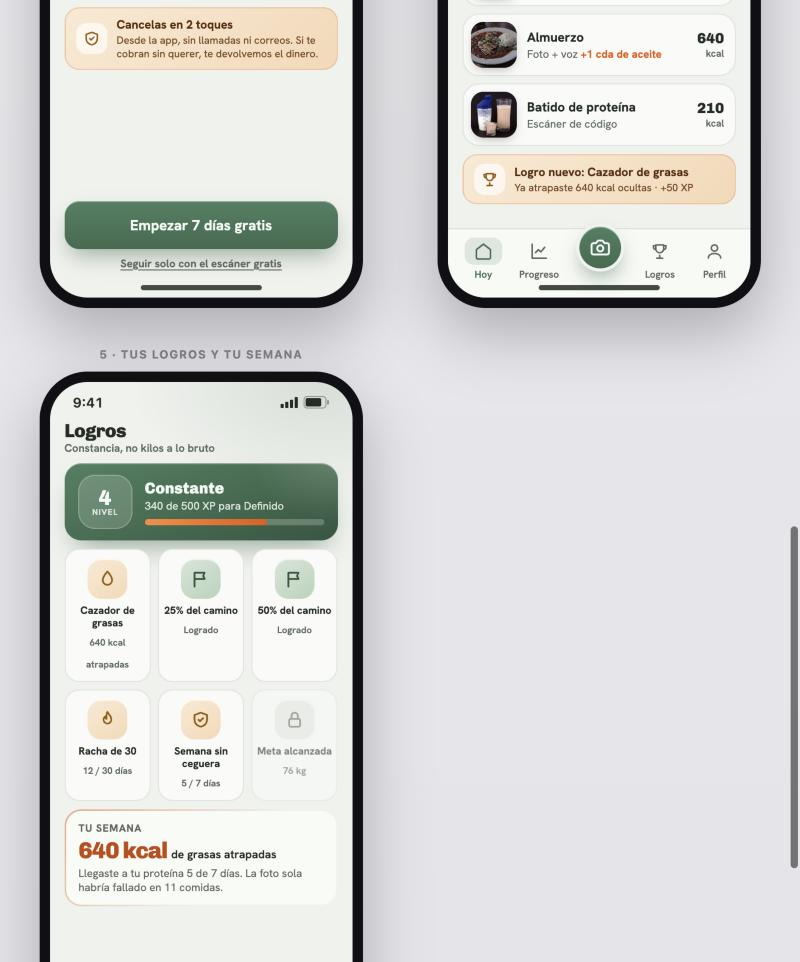
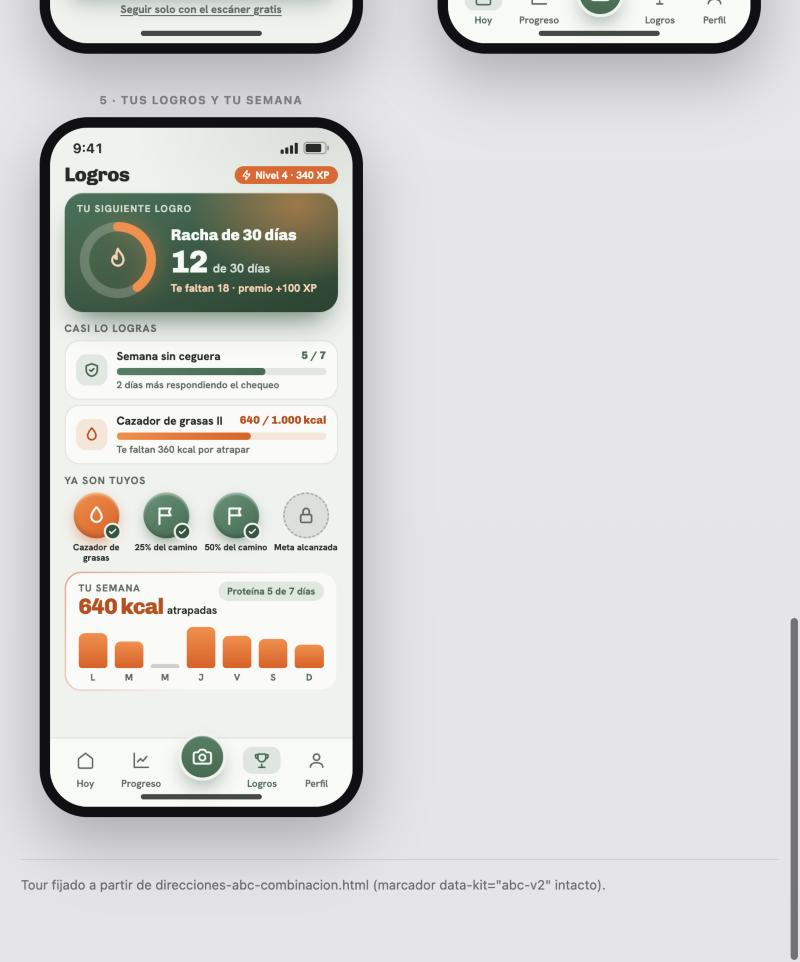
fix: rediseño pantalla de logros

diff --git a/docs/revisiones/vista-previa-app.html b/docs/revisiones/vista-previa-app.html
@@ -379,6 +379,43 @@
   .op-ab .reporte .big { font-family: var(--font-display); font-size: 22px; font-weight: 800; letter-spacing: -0.03em; margin-top: 2px; color: #C2490A; font-variant-numeric: tabular-nums; }
   .op-ab .reporte .big small { font-family: var(--font-body); font-size: 11px; color: var(--text-1); font-weight: 600; letter-spacing: 0; }
   .op-ab .reporte p { font-size: 10.5px; color: var(--text-2); margin-top: 2px; }
+
+  .op-ab .sig { margin-top: 7px; border-radius: 18px; padding: 9px 12px 11px; color:#F4FAF5; position: relative; overflow: hidden;
+    background: radial-gradient(150px 110px at 85% 10%, rgb(255 138 61 / .55), transparent 70%), linear-gradient(160deg, #3F7358, #2F5640 60%, #24432F); box-shadow: inset 0 1px 0 rgb(255 255 255 / .28), 0 16px 28px -12px rgb(47 86 64 / .8); }
+  .op-ab .sig .et { font-size: 9.5px; font-weight: 800; letter-spacing: .09em; text-transform: uppercase; opacity: .8; }
+  .op-ab .sig-in { display:flex; gap: 12px; align-items:center; margin-top: 4px; }
+  .op-ab .sig-ring { position:relative; width: 78px; height: 78px; flex-shrink:0; filter: drop-shadow(0 0 10px rgb(255 138 61 / .55)); }
+  .op-ab .sig-ring .c { position:absolute; inset:0; display:flex; align-items:center; justify-content:center; }
+  .op-ab .sig h4 { font-family: var(--font-display); font-size: 15px; font-weight: 800; letter-spacing: -0.01em; }
+  .op-ab .sig .big { font-family: var(--font-display); font-size: 30px; font-weight: 800; letter-spacing: -0.03em; line-height: 1; margin-top: 2px; font-variant-numeric: tabular-nums; } .op-ab .sig .big small { font-size: 12px; font-weight: 600; opacity: .85; letter-spacing: 0; font-family: var(--font-body); }
+  .op-ab .sig .falta { margin-top: 3px; font-size: 10.5px; font-weight: 700; color: #FFD2B0; }
+  .op-ab .sec { margin-top: 9px; font-size: 10px; font-weight: 800; letter-spacing: .08em; text-transform: uppercase; color: var(--text-2); }
+  .op-ab .prg { margin-top: 5px; display:flex; gap: 9px; align-items:center; padding: 7px 10px; border-radius: 14px; background: var(--surface); border: 1px solid color-mix(in oklab, var(--text-2) 15%, transparent); }
+  .op-ab .prg .ic { width: 30px; height: 30px; border-radius: 10px; display:flex; align-items:center; justify-content:center; background: color-mix(in oklab, var(--accent) 14%, transparent); color: var(--accent); flex-shrink:0; }
+  .op-ab .prg.o .ic { background: rgb(232 89 12 / .14); color: #C2490A; }
+  .op-ab .prg .in { flex:1; } .op-ab .prg .t { display:flex; justify-content: space-between; font-size: 11px; } .op-ab .prg .t span { font-family: var(--font-display); font-weight: 800; font-size: 10.5px; color: var(--accent); font-variant-numeric: tabular-nums; } .op-ab .prg.o .t span { color: #C2490A; }
+  .op-ab .prg .bar { margin-top: 4px; height: 7px; border-radius: 4px; background: color-mix(in oklab, var(--accent) 14%, transparent); overflow:hidden; } .op-ab .prg.o .bar { background: rgb(232 89 12 / .14); }
+  .op-ab .prg .bar i { display:block; height:100%; border-radius: 4px; background: linear-gradient(90deg, #4B8062, #3D6B4F); } .op-ab .prg.o .bar i { background: linear-gradient(90deg, #FF8A3D, #E8590C); }
+  .op-ab .prg p { margin-top: 3px; font-size: 9.5px; color: var(--text-2); font-weight: 600; }
+  .op-ab .medallas { margin-top: 5px; display:grid; grid-template-columns: repeat(4,1fr); gap: 6px; }
+  .op-ab .med { text-align:center; } .op-ab .med b { display:block; margin-top: 4px; font-size: 8.5px; line-height: 1.15; font-weight: 800; }
+  .op-ab .med .m { position:relative; width: 44px; height: 44px; border-radius: 999px; margin: 0 auto; display:flex; align-items:center; justify-content:center; box-shadow: inset 0 2px 2px rgb(255 255 255 / .45), inset 0 -3px 4px rgb(0 0 0 / .18); }
+  .op-ab .med .m.o { background: linear-gradient(145deg, #FF8A3D, #E8590C); box-shadow: inset 0 2px 2px rgb(255 255 255 / .45), inset 0 -3px 4px rgb(0 0 0 / .18), 0 6px 14px -4px rgb(232 89 12 / .7); }
+  .op-ab .med .m.g { background: linear-gradient(145deg, #5B9576, #3D6B4F); box-shadow: inset 0 2px 2px rgb(255 255 255 / .45), inset 0 -3px 4px rgb(0 0 0 / .18), 0 6px 14px -4px rgb(61 107 79 / .7); }
+  .op-ab .med .m.z { background: color-mix(in oklab, var(--text-2) 14%, transparent); color: var(--text-2); box-shadow: none; border: 1.5px dashed color-mix(in oklab, var(--text-2) 40%, transparent); }
+  .op-ab .med .m u { position:absolute; right: -2px; bottom: -2px; width: 17px; height: 17px; border-radius: 999px; background: #2F5640; border: 2px solid var(--bg); display:flex; align-items:center; justify-content:center; }
+  .op-ab .med .m.o u { background: #2F5640; }
+  .op-ab .sem { margin-top: 8px; border-radius: 16px; padding: 8px 12px 6px; background: var(--surface); border: 1.5px solid transparent;
+    background: linear-gradient(var(--surface), var(--surface)) padding-box, linear-gradient(135deg, rgb(232 89 12 / .5), transparent 60%) border-box; }
+  .op-ab .sem .sh { display:flex; justify-content: space-between; align-items:flex-start; }
+  .op-ab .sem h5 { font-size: 9.5px; letter-spacing: .08em; text-transform: uppercase; color: var(--text-2); font-weight: 800; }
+  .op-ab .sem .big { font-family: var(--font-display); font-size: 21px; font-weight: 800; letter-spacing: -0.03em; color: #C2490A; font-variant-numeric: tabular-nums; line-height: 1.1; } .op-ab .sem .big small { font-family: var(--font-body); font-size: 10.5px; color: var(--text-1); font-weight: 600; letter-spacing: 0; }
+  .op-ab .sem .pill { font-size: 9.5px; font-weight: 800; padding: 3px 8px; border-radius: 999px; background: color-mix(in oklab, var(--accent) 14%, transparent); color: var(--accent); }
+  .op-ab .barras { margin-top: 6px; height: 56px; display:flex; gap: 7px; align-items:flex-end; }
+  .op-ab .barras div { flex:1; height: 100%; display:flex; flex-direction:column; justify-content:flex-end; align-items:center; gap: 3px; }
+  .op-ab .barras i { display:block; width: 100%; border-radius: 6px 6px 3px 3px; background: linear-gradient(180deg, #FF8A3D, #E8590C); }
+  .op-ab .barras i.cero { height: 4px; background: color-mix(in oklab, var(--text-2) 30%, transparent); }
+  .op-ab .barras span { font-size: 9px; font-weight: 800; color: var(--text-2); } .op-ab .barras .hoy span { color: var(--accent); }
   .op-ab .fila-moviles { grid-template-columns: repeat(auto-fit, minmax(310px, 1fr)); }
   .pie {
     max-width: 1180px; margin: 40px auto 0; font-size: 12.5px; color: #6a6a72;
@@ -453,16 +490,17 @@
  </div><div class="home-indicator"></div></div></div><div class="marco"><p class="rotulo-frame">5 · Tus logros y tu semana</p><div class="telefono"><div class="statusbar" style="color:#242B24"><span>9:41</span><span class="der">
 <svg width="17" height="11" viewBox="0 0 17 11" fill="currentColor"><rect x="0" y="7" width="3" height="4" rx="0.8"/><rect x="4.5" y="5" width="3" height="6" rx="0.8"/><rect x="9" y="3" width="3" height="8" rx="0.8"/><rect x="13.5" y="0.5" width="3" height="10.5" rx="0.8"/></svg>
 <svg width="25" height="12" viewBox="0 0 25 12"><rect x="0.5" y="0.5" width="21" height="11" rx="3" fill="none" stroke="currentColor" opacity="0.4"/><rect x="2" y="2" width="15" height="8" rx="1.6" fill="currentColor"/><rect x="22.5" y="3.8" width="2" height="4.4" rx="1" fill="currentColor" opacity="0.4"/></svg></span></div><div class="pantalla">
-  <div class="top" style="margin-top:4px"><div><h3 style="font-family:var(--font-display);font-size:18px;font-weight:800;letter-spacing:-0.02em">Logros</h3><p>Constancia, no kilos a lo bruto</p></div></div>
-  <div class="nivel-card"><span class="n">4<small>NIVEL</small></span><div style="flex:1"><h4>Constante</h4><p>340 de 500 XP para Definido</p><div class="xb"><i></i></div></div></div>
-  <div class="insignias">
-   <div class="ins"><span class="ic"><svg width="18" height="18" viewBox="0 0 24 24" fill="none" stroke="currentColor" stroke-width="2.2" stroke-linecap="round" stroke-linejoin="round" aria-hidden="true"><path d="M12 2.5s6 6.2 6 11a6 6 0 0 1-12 0c0-4.8 6-11 6-11z"/></svg></span><b>Cazador de grasas</b><span>640 kcal atrapadas</span></div>
-   <div class="ins g"><span class="ic"><svg width="18" height="18" viewBox="0 0 24 24" fill="none" stroke="currentColor" stroke-width="2.2" stroke-linecap="round" stroke-linejoin="round" aria-hidden="true"><path d="M4 22V4M4 4h13l-2 4 2 4H4"/></svg></span><b>25% del camino</b><span>Logrado</span></div>
-   <div class="ins g"><span class="ic"><svg width="18" height="18" viewBox="0 0 24 24" fill="none" stroke="currentColor" stroke-width="2.2" stroke-linecap="round" stroke-linejoin="round" aria-hidden="true"><path d="M4 22V4M4 4h13l-2 4 2 4H4"/></svg></span><b>50% del camino</b><span>Logrado</span></div>
-   <div class="ins"><span class="ic"><svg width="18" height="18" viewBox="0 0 24 24" fill="none" stroke="currentColor" stroke-width="2.2" stroke-linecap="round" stroke-linejoin="round" aria-hidden="true"><path d="M12 2c1 3 5 5 5 10a5 5 0 0 1-10 0c0-2 1-3 2-4 0 2 1 3 2 3 0-3-1-5 1-9z"/></svg></span><b>Racha de 30</b><span>12 / 30 días</span></div>
-   <div class="ins"><span class="ic"><svg width="18" height="18" viewBox="0 0 24 24" fill="none" stroke="currentColor" stroke-width="2.2" stroke-linecap="round" stroke-linejoin="round" aria-hidden="true"><path d="M12 3 4 6v6c0 5 3.5 8 8 9 4.5-1 8-4 8-9V6z"/><path d="m9 12 2 2 4-4"/></svg></span><b>Semana sin ceguera</b><span>5 / 7 días</span></div>
-   <div class="ins bloq"><span class="ic"><svg width="18" height="18" viewBox="0 0 24 24" fill="none" stroke="currentColor" stroke-width="2.2" stroke-linecap="round" stroke-linejoin="round" aria-hidden="true"><rect x="5" y="11" width="14" height="10" rx="2"/><path d="M8 11V7a4 4 0 0 1 8 0v4"/></svg></span><b>Meta alcanzada</b><span>76 kg</span></div></div>
-  <div class="reporte"><h5>Tu semana</h5><p class="big">640 kcal <small>de grasas atrapadas</small></p><p>Llegaste a tu proteína 5 de 7 días. La foto sola habría fallado en 11 comidas.</p></div>
+  <div class="top" style="margin-top:2px;justify-content:space-between"><h3 style="font-family:var(--font-display);font-size:19px;font-weight:800;letter-spacing:-0.02em">Logros</h3><span class="racha"><svg width="11" height="11" viewBox="0 0 24 24" fill="none" stroke="#fff" stroke-width="2.4" stroke-linecap="round" stroke-linejoin="round" aria-hidden="true"><path d="M13 2 4 14h7l-1 8 9-12h-7z"/></svg> Nivel 4 · 340 XP</span></div>
+  <div class="sig"><p class="et">Tu siguiente logro</p>
+    <div class="sig-in"><div class="sig-ring"><svg width="78" height="78" viewBox="0 0 78 78"><circle cx="39.0" cy="39.0" r="32" fill="none" stroke-width="9" stroke="rgba(255,255,255,.2)"/><circle cx="39.0" cy="39.0" r="32" fill="none" stroke-width="9" stroke="#FF8A3D" stroke-linecap="round" stroke-dasharray="201.1" stroke-dashoffset="120.6" transform="rotate(-90 39.0 39.0)"/></svg><span class="c"><svg width="26" height="26" viewBox="0 0 24 24" fill="none" stroke="#FFD2B0" stroke-width="2" stroke-linecap="round" stroke-linejoin="round" aria-hidden="true"><path d="M12 2c1 3 5 5 5 10a5 5 0 0 1-10 0c0-2 1-3 2-4 0 2 1 3 2 3 0-3-1-5 1-9z"/></svg></span></div>
+    <div><h4>Racha de 30 días</h4><p class="big">12 <small>de 30 días</small></p><p class="falta">Te faltan 18 · premio +100 XP</p></div></div></div>
+  <p class="sec">Casi lo logras</p>
+  <div class="prg"><span class="ic"><svg width="16" height="16" viewBox="0 0 24 24" fill="none" stroke="currentColor" stroke-width="2.4" stroke-linecap="round" stroke-linejoin="round" aria-hidden="true"><path d="M12 3 4 6v6c0 5 3.5 8 8 9 4.5-1 8-4 8-9V6z"/><path d="m9 12 2 2 4-4"/></svg></span><div class="in"><div class="t"><b>Semana sin ceguera</b><span>5 / 7</span></div><div class="bar"><i style="width:71%"></i></div><p>2 días más respondiendo el chequeo</p></div></div>
+  <div class="prg o"><span class="ic"><svg width="16" height="16" viewBox="0 0 24 24" fill="none" stroke="currentColor" stroke-width="2.4" stroke-linecap="round" stroke-linejoin="round" aria-hidden="true"><path d="M12 2.5s6 6.2 6 11a6 6 0 0 1-12 0c0-4.8 6-11 6-11z"/></svg></span><div class="in"><div class="t"><b>Cazador de grasas II</b><span>640 / 1.000 kcal</span></div><div class="bar"><i style="width:64%"></i></div><p>Te faltan 360 kcal por atrapar</p></div></div>
+  <p class="sec">Ya son tuyos</p>
+  <div class="medallas"><div class="med"><span class="m o"><svg width="20" height="20" viewBox="0 0 24 24" fill="none" stroke="#fff" stroke-width="2.4" stroke-linecap="round" stroke-linejoin="round" aria-hidden="true"><path d="M12 2.5s6 6.2 6 11a6 6 0 0 1-12 0c0-4.8 6-11 6-11z"/></svg><u><svg width="9" height="9" viewBox="0 0 24 24" fill="none" stroke="#fff" stroke-width="3.4" stroke-linecap="round" stroke-linejoin="round" aria-hidden="true"><path d="M20 6 9 17l-5-5"/></svg></u></span><b>Cazador de grasas</b></div><div class="med"><span class="m g"><svg width="20" height="20" viewBox="0 0 24 24" fill="none" stroke="#fff" stroke-width="2.4" stroke-linecap="round" stroke-linejoin="round" aria-hidden="true"><path d="M4 22V4M4 4h13l-2 4 2 4H4"/></svg><u><svg width="9" height="9" viewBox="0 0 24 24" fill="none" stroke="#fff" stroke-width="3.4" stroke-linecap="round" stroke-linejoin="round" aria-hidden="true"><path d="M20 6 9 17l-5-5"/></svg></u></span><b>25% del camino</b></div><div class="med"><span class="m g"><svg width="20" height="20" viewBox="0 0 24 24" fill="none" stroke="#fff" stroke-width="2.4" stroke-linecap="round" stroke-linejoin="round" aria-hidden="true"><path d="M4 22V4M4 4h13l-2 4 2 4H4"/></svg><u><svg width="9" height="9" viewBox="0 0 24 24" fill="none" stroke="#fff" stroke-width="3.4" stroke-linecap="round" stroke-linejoin="round" aria-hidden="true"><path d="M20 6 9 17l-5-5"/></svg></u></span><b>50% del camino</b></div><div class="med"><span class="m z"><svg width="18" height="18" viewBox="0 0 24 24" fill="none" stroke="currentColor" stroke-width="2.2" stroke-linecap="round" stroke-linejoin="round" aria-hidden="true"><rect x="5" y="11" width="14" height="10" rx="2"/><path d="M8 11V7a4 4 0 0 1 8 0v4"/></svg></span><b>Meta alcanzada</b></div></div>
+  <div class="sem"><div class="sh"><div><h5>Tu semana</h5><p class="big">640 kcal <small>atrapadas</small></p></div><span class="pill">Proteína 5 de 7 días</span></div>
+    <div class="barras"><div><i style="height:60%"></i><span>L</span></div><div><i style="height:45%"></i><span>M</span></div><div><i class="cero"></i><span>M</span></div><div><i style="height:70%"></i><span>J</span></div><div><i style="height:55%"></i><span>V</span></div><div><i style="height:50%"></i><span>S</span></div><div class="hoy"><i style="height:40%"></i><span>D</span></div></div></div>
   <nav class="tabbar" aria-label="Navegación"><a href="#"><span class="tab-chip"><svg width="18" height="18" viewBox="0 0 24 24" fill="none" stroke="currentColor" stroke-width="2" stroke-linecap="round" stroke-linejoin="round" aria-hidden="true"><path d="m3 10 9-7 9 7v10a2 2 0 0 1-2 2H5a2 2 0 0 1-2-2z"/></svg></span>Hoy</a><a href="#"><span class="tab-chip"><svg width="18" height="18" viewBox="0 0 24 24" fill="none" stroke="currentColor" stroke-width="2" stroke-linecap="round" stroke-linejoin="round" aria-hidden="true"><path d="M3 3v18h18"/><path d="M7 14l4-4 3 3 5-6"/></svg></span>Progreso</a><a class="centro" href="#"><span class="fab"><svg width="20" height="20" viewBox="0 0 24 24" fill="none" stroke="#F4FAF5" stroke-width="2.2" stroke-linecap="round" stroke-linejoin="round" aria-hidden="true"><path d="M14.5 4h-5L7 7H4a2 2 0 0 0-2 2v9a2 2 0 0 0 2 2h16a2 2 0 0 0 2-2V9a2 2 0 0 0-2-2h-3z"/><circle cx="12" cy="13" r="3.5"/></svg></span></a><a class="activa" href="#"><span class="tab-chip"><svg width="18" height="18" viewBox="0 0 24 24" fill="none" stroke="currentColor" stroke-width="2" stroke-linecap="round" stroke-linejoin="round" aria-hidden="true"><path d="M8 21h8M12 17v4M7 4h10v5a5 5 0 0 1-10 0zM17 5h3v2a3 3 0 0 1-3 3M7 5H4v2a3 3 0 0 0 3 3"/></svg></span>Logros</a><a href="#"><span class="tab-chip"><svg width="18" height="18" viewBox="0 0 24 24" fill="none" stroke="currentColor" stroke-width="2" stroke-linecap="round" stroke-linejoin="round" aria-hidden="true"><circle cx="12" cy="8" r="4"/><path d="M4 21c0-4 3.6-6 8-6s8 2 8 6"/></svg></span>Perfil</a></nav></div><div class="home-indicator"></div></div></div></div></section></div><footer class="pie">Tour fijado a partir de direcciones-abc-combinacion.html (marcador data-kit="abc-v2" intacto).</footer>
 </body>
 </html>

diff --git a/ESTADO.md b/ESTADO.md
@@ -1,7 +1,7 @@
 # ESTADO — NutriSnap AI
 Última actualización: 2026-11-03 | Sesión actual: 2 (identidad visual) — comparativa A/B/C presentada
 
-⏸ CHECKPOINT — Última acción completada: direcciones-abc.html (A Salvia clínica / B Pista de gym / C Cítrica rápida) construida y verificada (fuentes cargadas, mockups llenos); usuario eligió ruta 'tú propones'. El usuario pidió COMBINAR A+B (visual de A + gamificación de B + avance a la meta + fotos de comida; refs suyas: apps con tarjeta verde pálida, anillo, foto de comida a pantalla completa, escáner con modos). Combinación renderizada en docs/revisiones/direcciones-abc-combinacion.html; APROBADA por el usuario (2026-11-03). Tour construido en docs/revisiones/vista-previa-app.html (onboarding, primer resultado, plan, hoy, logros); esperando su OK al tour para cerrar FICHA-ARTE. Antes: Sesión 1 cerrada (avatar aprobado, monetización y mejoras aprobadas). / Constitución del Producto aprobada. Siguiente acción exacta: esperar OK del usuario y arrancar Sesión 2: leer 16-DIRECCION-DE-ARTE, 54-BANCO-DE-DIRECCIONES, 29, 10, DESIGN-CORE; hacer LA PREGUNTA DE REFERENCIA (¿propongo yo o tienes capturas de un estilo?).
+⏸ CHECKPOINT — Última acción completada: direcciones-abc.html (A Salvia clínica / B Pista de gym / C Cítrica rápida) construida y verificada (fuentes cargadas, mockups llenos); usuario eligió ruta 'tú propones'. El usuario pidió COMBINAR A+B (visual de A + gamificación de B + avance a la meta + fotos de comida; refs suyas: apps con tarjeta verde pálida, anillo, foto de comida a pantalla completa, escáner con modos). Combinación renderizada en docs/revisiones/direcciones-abc-combinacion.html; APROBADA por el usuario (2026-11-03). Tour construido en docs/revisiones/vista-previa-app.html (onboarding, primer resultado, plan, hoy, logros); tour ajustado (pantalla 5 Logros rediseñada: siguiente logro con anillo, barras de avance, medallas, gráfico semanal); esperando su OK al tour para cerrar FICHA-ARTE. Antes: Sesión 1 cerrada (avatar aprobado, monetización y mejoras aprobadas). / Constitución del Producto aprobada. Siguiente acción exacta: esperar OK del usuario y arrancar Sesión 2: leer 16-DIRECCION-DE-ARTE, 54-BANCO-DE-DIRECCIONES, 29, 10, DESIGN-CORE; hacer LA PREGUNTA DE REFERENCIA (¿propongo yo o tienes capturas de un estilo?).
 
 ## Qué es esta app
 Registro de calorías y macros por FOTO con IA + corrección por VOZ + escáner de código de barras incluido. Para gente que entrena en el gym (22-38) y quiere déficit/proteína sin pesar ni teclear. Suscripción freemium: US$6.99/mes · US$39.99/año · trial 3 días con tarjeta.
